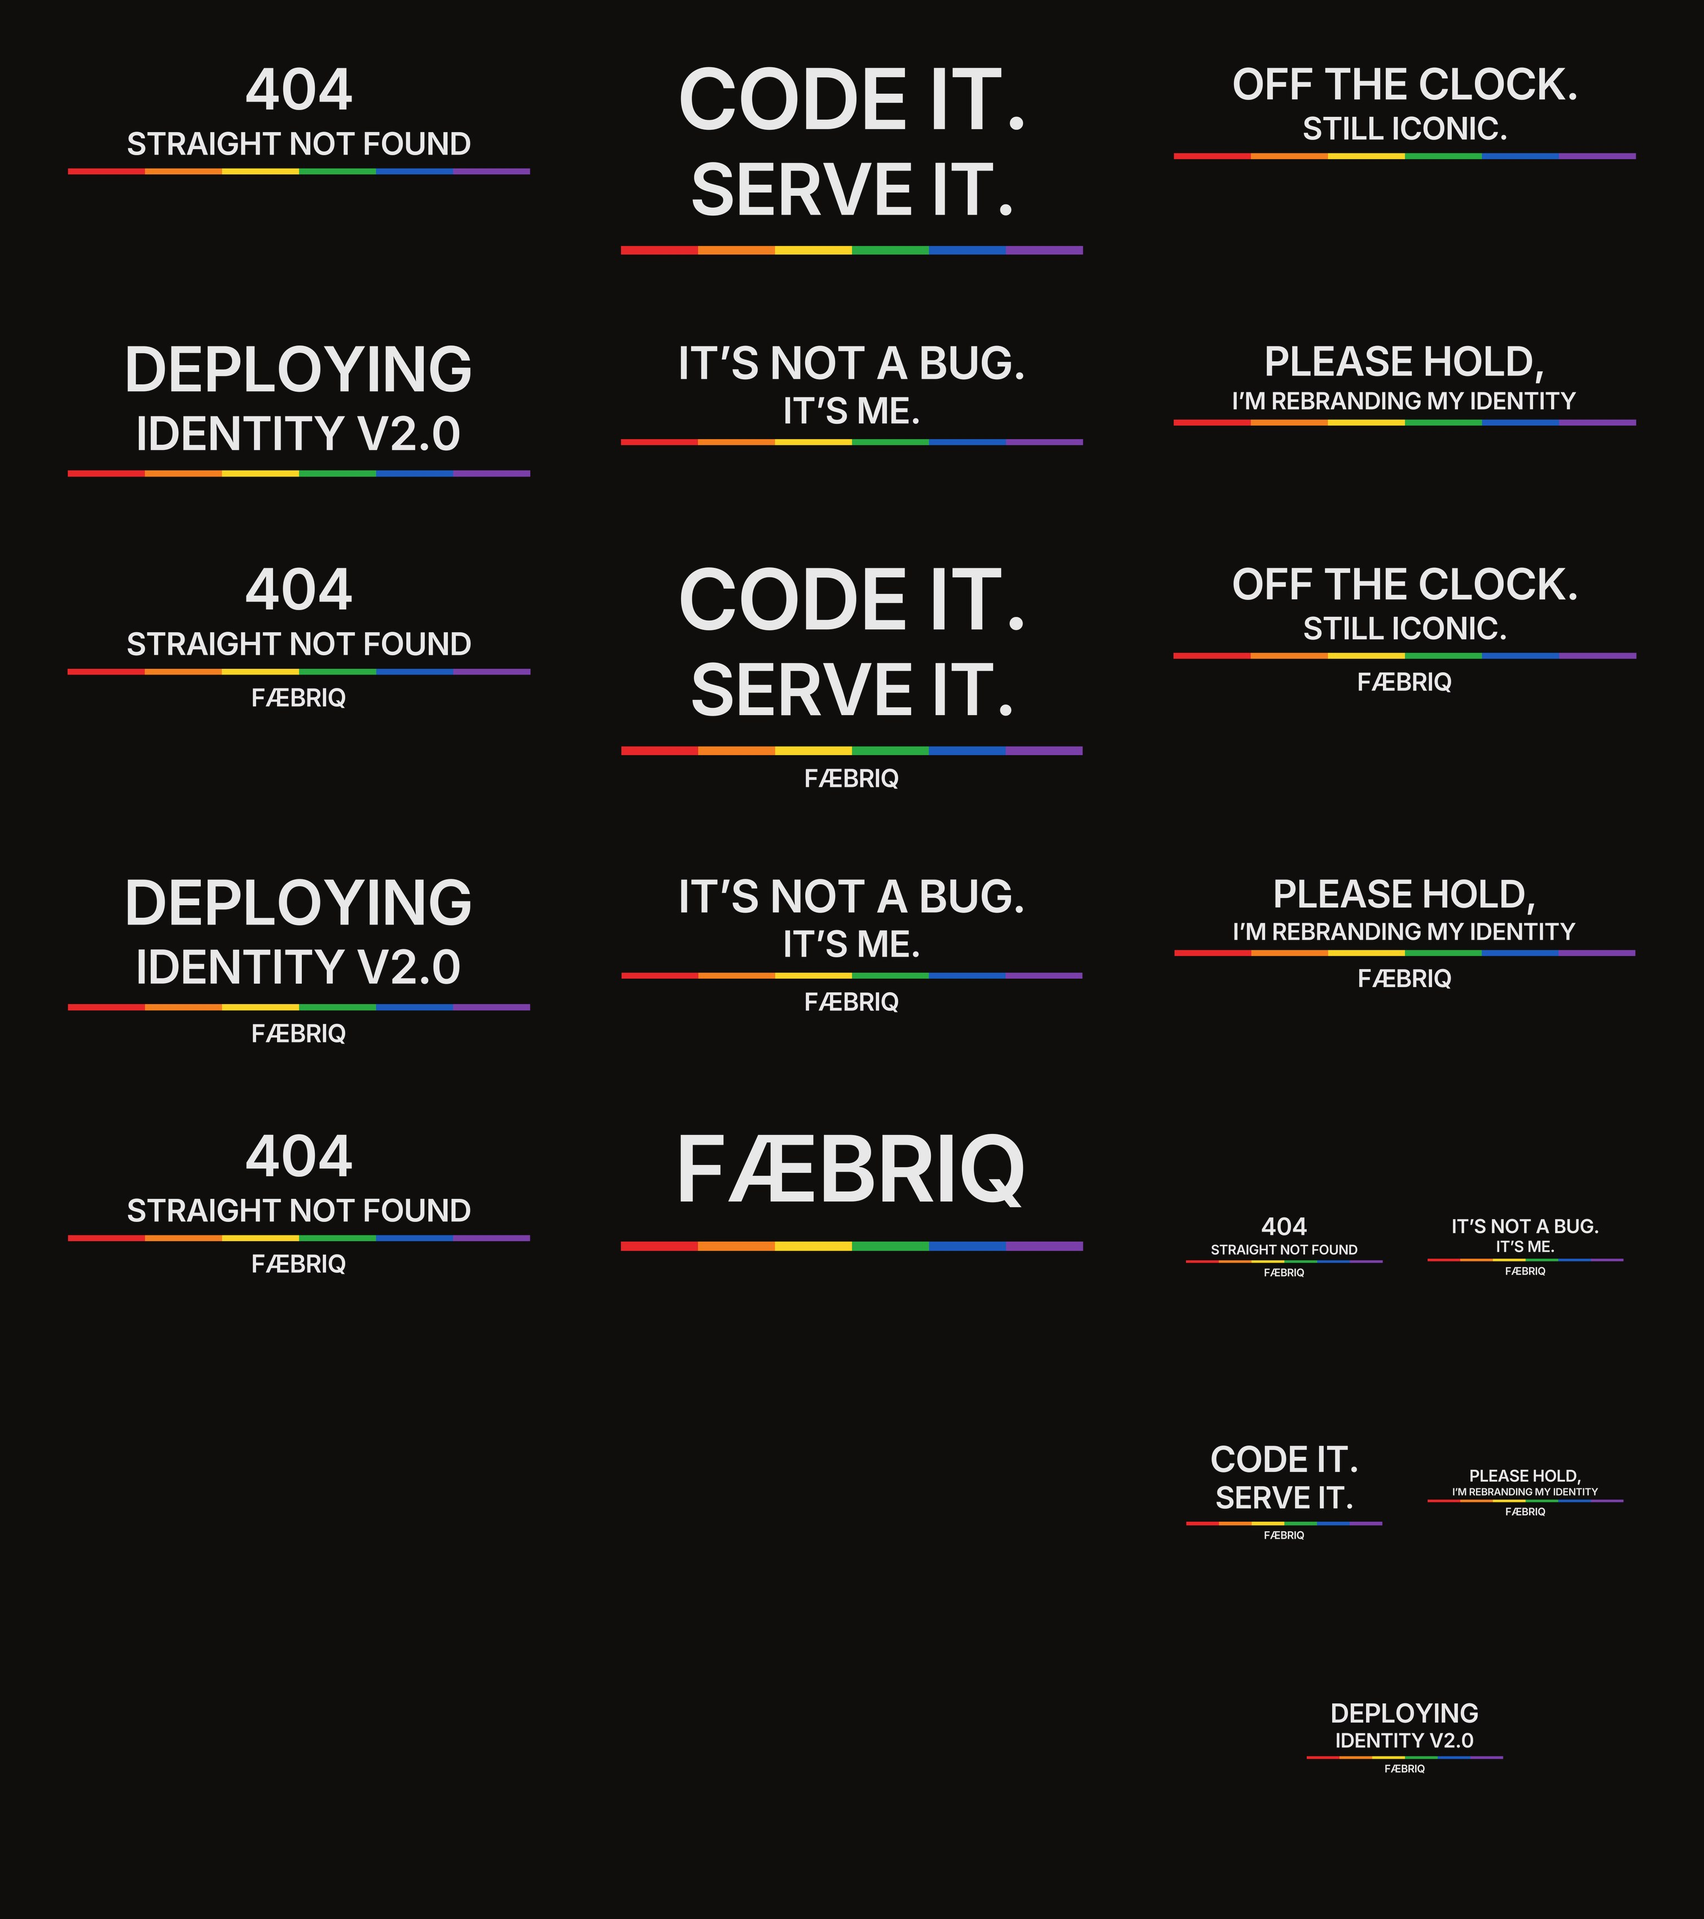
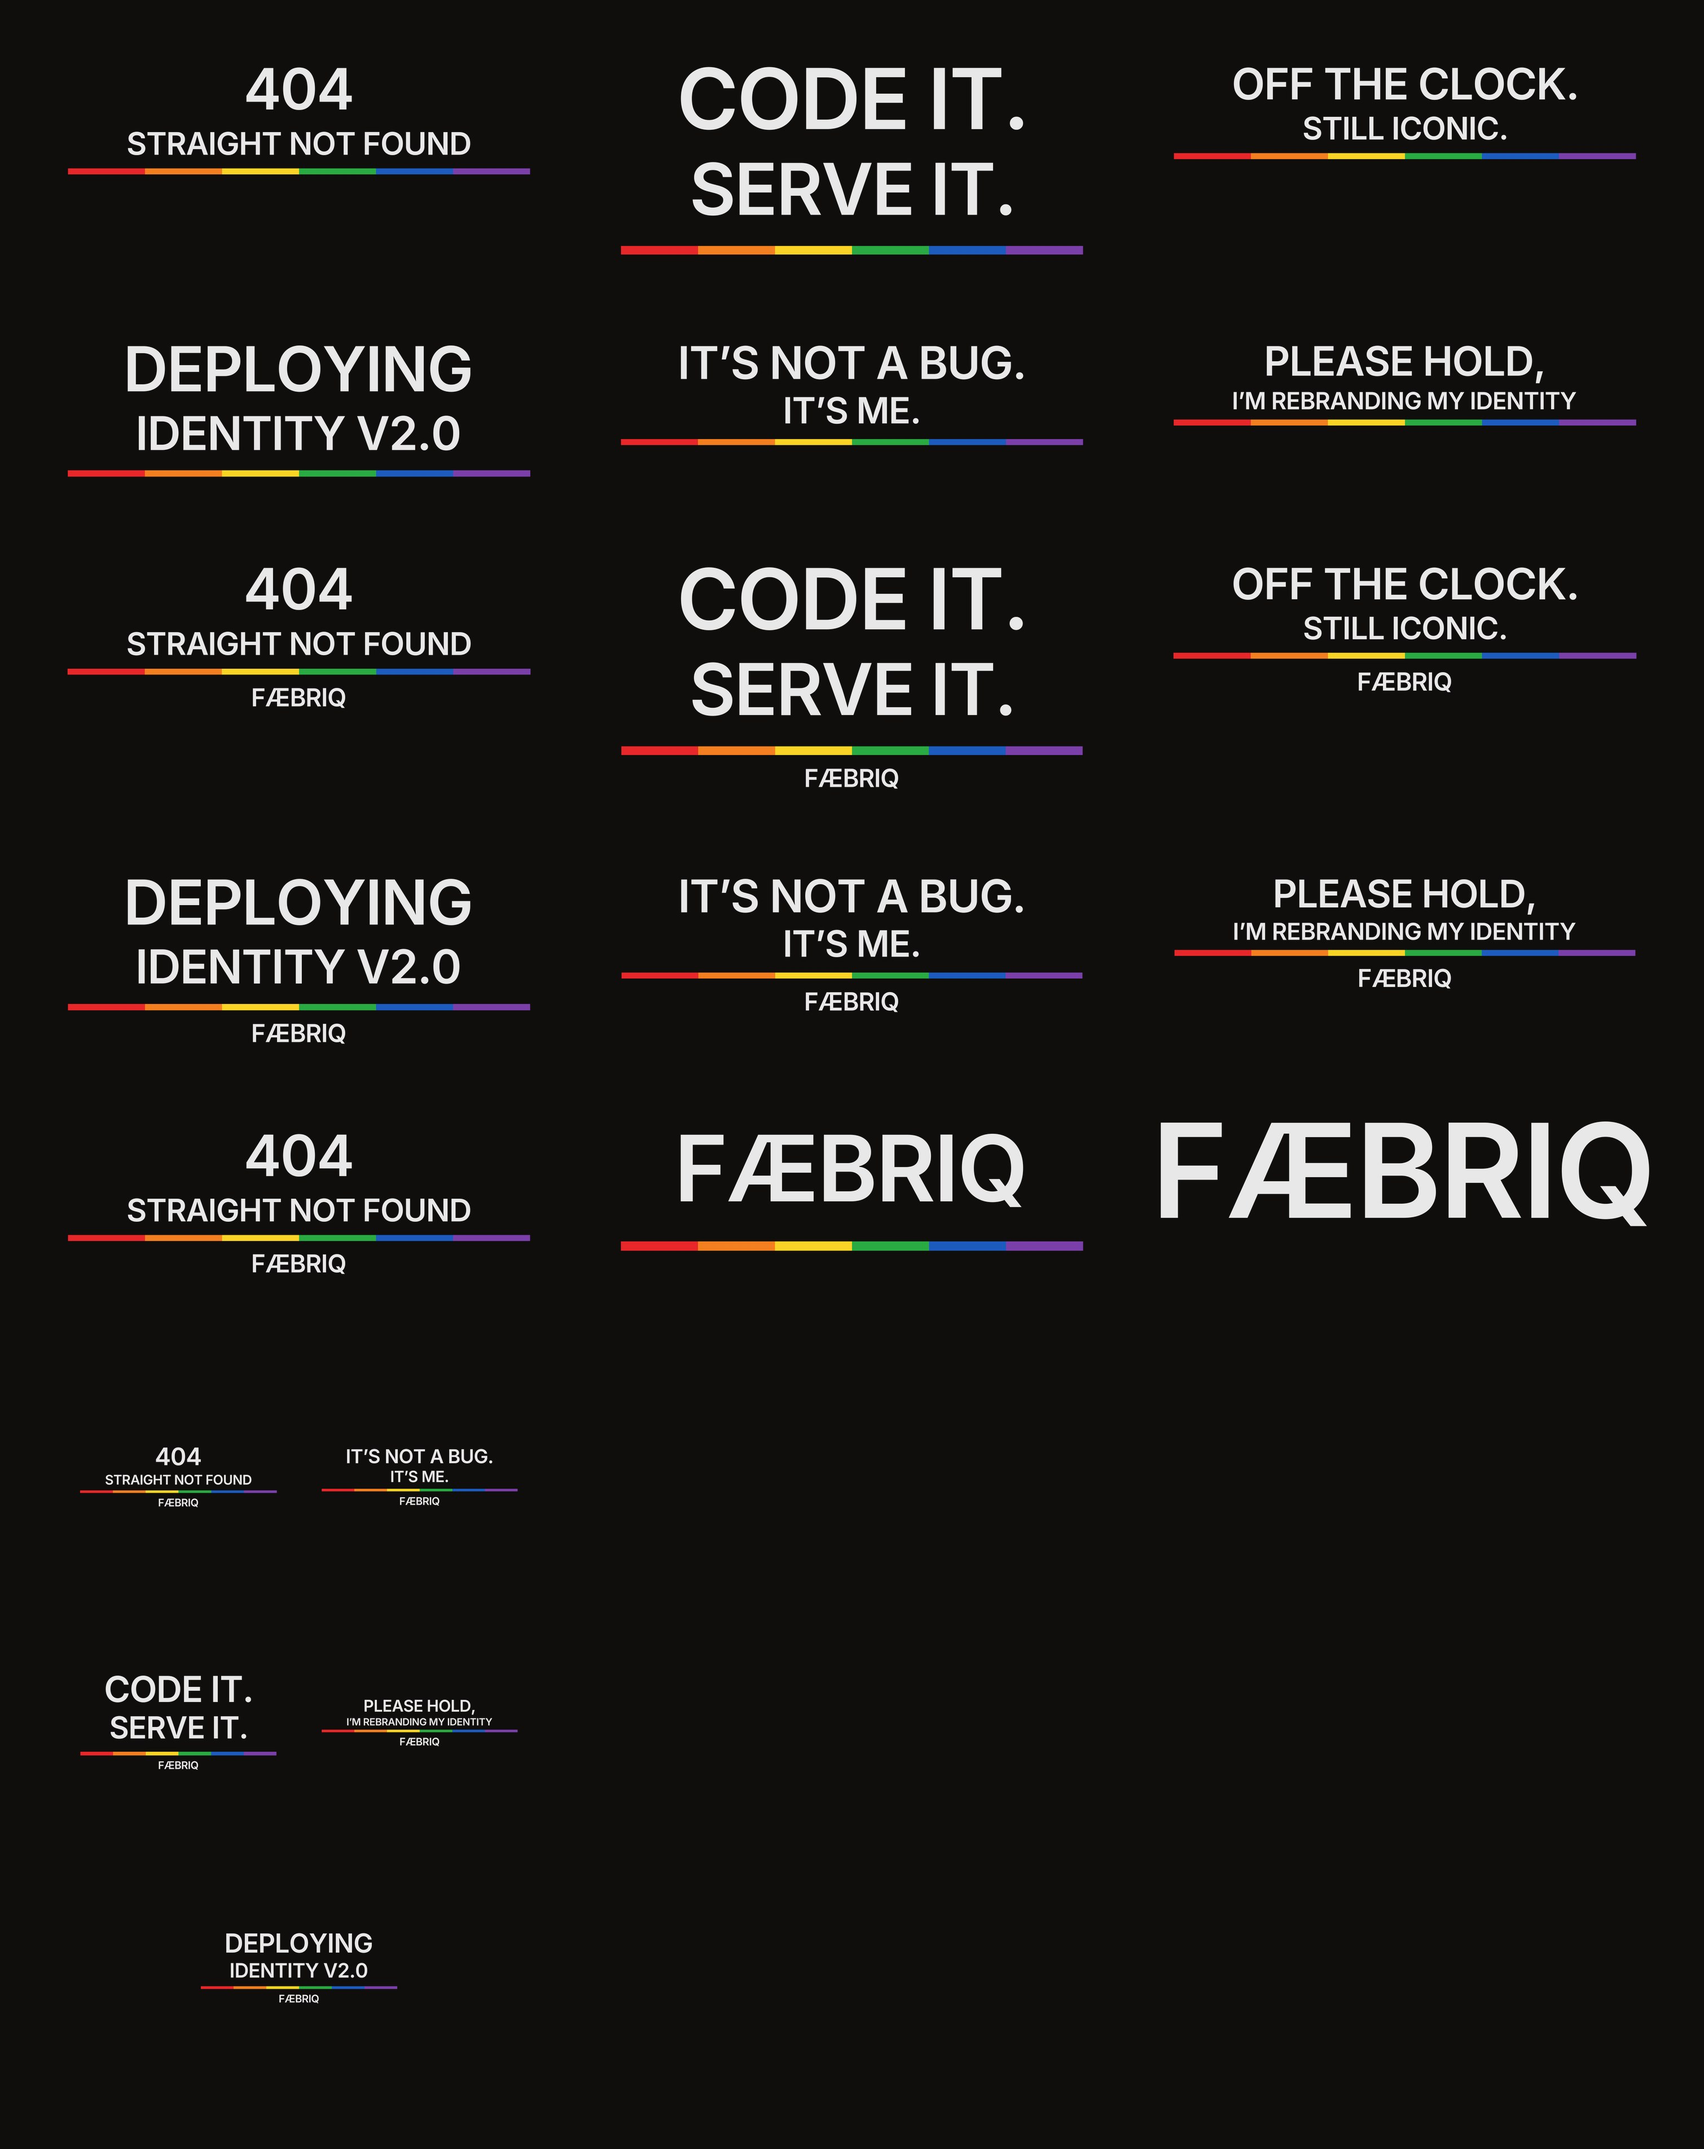
Sleeve wordmark without stripe
Claude-Session: https://claude.ai/code/session_01VwDCHt8ADP2wXBC2gUM4Zh

diff --git a/tools/make_print_system.py b/tools/make_print_system.py
@@ -201,6 +201,17 @@ def main():
     # Logo: wordmark as line 1, stripe underneath. Cap front and apparel sleeve.
     im, meta = lockup(("FÆBRIQ",), False, 3600)
     preview.append(save(im, "logo-faebriq-1p35.png", meta, "cap front + sleeve", ["FÆBRIQ"], manifest))
+    # Sleeve: FÆBRIQ alone, no stripe (the chest print already carries it,
+    # and at 3 in the stripe would print as a 1.5 mm thread).
+    f = font(1000)
+    f = font(1000 * 3000 / ink_w(f, "FÆBRIQ"))
+    m, _ = line_mask(f, "FÆBRIQ")
+    pad = 60
+    im = Image.new("RGBA", (m.width + 2 * pad, m.height + 2 * pad), (0, 0, 0, 0))
+    ink = Image.new("RGBA", m.size, WHITE + (255,))
+    ink.putalpha(m)
+    im.alpha_composite(ink, (pad, pad))
+    preview.append(save(im, "wordmark-faebriq-sleeve.png", {}, "apparel sleeve", ["FÆBRIQ"], manifest))
     sheet = sticker_sheet(stickers)
     save(sheet, "sticker-sheet-2400x3600.png", {}, "sticker sheet", SHEET, manifest)
     preview.append(sheet)

diff --git a/handoff/MUSE_BRIEF_4.md b/handoff/MUSE_BRIEF_4.md
@@ -33,7 +33,7 @@ Manus ran out of credits. It delivered no images and saved nothing in Printify. 
 | `deploying-identity-v2-sticker` | kiss-cut sticker | `deploying-identity-v2-sticker-2400.png` |
 | `faebriq-sticker-sheet-full-drop` | sticker sheet | `sticker-sheet-2400x3600.png` |
 
-Tees, hoodie and crewneck also carry `logo-faebriq-1p35.png` (FÆBRIQ over the stripe) about 3 in wide at the **bottom of the left sleeve**, **horizontal**: it reads left to right across the sleeve, level when the arm hangs down, about 1 in above the sleeve hem (tees) or the cuff (hoodie, crewneck). Show it where the angle allows.
+Tees, hoodie and crewneck also carry `wordmark-faebriq-sleeve.png` (FÆBRIQ alone, no stripe) about 3 in wide at the **bottom of the left sleeve**, **horizontal**: it reads left to right across the sleeve, level when the arm hangs down, about 1 in above the sleeve hem (tees) or the cuff (hoodie, crewneck). Show it where the angle allows.
 
 ## Tiers (work in the table's order)
 - **Tier 2 (first):** slot 1 and slot 2 for all 12 products. That's 24 images.
@@ -78,7 +78,7 @@ Generate the scene with the product blank but no print, then composite the exact
    - Tote: 10 in, centered.
    - Cap: 3.5 to 4 in, centered.
    - Stickers and sheet: fill the area.
-   - Left sleeve: `logo-faebriq-1p35.png` at 3 in, **horizontal** (no rotation), placed at the bottom of the sleeve print area, about 1 in above the hem or cuff. **Only if the product already has a sleeve position.** Never change blueprint or provider. If the sleeve area is too narrow for 3 in horizontal, use the largest width that fits and note it.
+   - Left sleeve: `wordmark-faebriq-sleeve.png` at 3 in, **horizontal** (no rotation), placed at the bottom of the sleeve print area, about 1 in above the hem or cuff. **Only if the product already has a sleeve position.** Never change blueprint or provider. If the sleeve area is too narrow for 3 in horizontal, use the largest width that fits and note it.
 5. **Publish** with title, description, tags and images/mockups set to **false**. Variants only. No price may change.
 6. Record in `Final_report.md`: done per product, sleeve added or not offered, cost before and after, and the sticker sheet's print area size.
 

diff --git a/IMAGERY_SPEC_2026-09-23.md b/IMAGERY_SPEC_2026-09-23.md
@@ -8,7 +8,7 @@ Decisions by Maurice. Decision board: https://claude.ai/artifact/9zSaBXjVRRWu1AV
 - **Gallery:** exactly 4 shots per product, in the slot order below.
 - **Ground:** the brand's near-black (#0f0e0c family). Dark studio surfaces, dark scenes.
 - **Print system (set 2026/09/25, supersedes every earlier lockup):** Inter SemiBold, white. Line 2 at 55 to 90% of line 1's font size, set per design in `tools/make_print_system.py` (404 0.55, Code It 0.85, Off The Clock 0.72, Deploying 0.75, Not A Bug 0.80, Please Hold 0.58). A flat six-block rainbow pride stripe under the text, 1.35x the widest text line. Files: `assets/print-art/system-2026-09-25/`, generated by `tools/make_print_system.py`.
-- **Wordmark:** FÆBRIQ under the stripe on stickers and the tote only. Tees, hoodie and crewneck carry no wordmark on the chest; they get `logo-faebriq-1p35.png` on the left sleeve. The cap front uses that same logo.
+- **Wordmark:** FÆBRIQ under the stripe on stickers and the tote only. Tees, hoodie and crewneck carry no wordmark on the chest; they get `wordmark-faebriq-sleeve.png` (FÆBRIQ alone, no stripe) horizontal at the bottom of the left sleeve. The cap front uses `logo-faebriq-1p35.png` (FÆBRIQ over the stripe).
 - **Brand spelling:** FÆBRIQ, with the Æ ligature, every time. The old repo mockups (`assets/mockup-*.png`, `FAEBRIQ_*_Mockup*.png`, `model-*-new.png`, `model-flatlay-new.png`) show a garbled wordmark, the circuit logo on slogan products, or an off-brand font. Never use them as a reference or as a product image.
 - **Retired 2026/09/25:** every print file outside `system-2026-09-25/` (Bodoni serif masters, the v3 404, cap v2/v3, `sticker-final-system-2026-08-27/`) and the 2026-09-24 product image set.
 - **Never:** embroidery claims, em or en dashes.

diff --git a/CHANGELOG.md b/CHANGELOG.md
@@ -112,3 +112,4 @@ Why: Maurice's call to put every product in one system; older print files and th
 2026-09-25 Manus ran out of credits with nothing delivered; added handoff/MUSE_BRIEF_4.md so Muse makes the product images (physically warped composites), Printify swaps go to Maurice by hand. Why: no Manus credits left.
 2026-09-25 MUSE_BRIEF_4: Muse now also does the Printify swaps via its connector (read first, one batched approval, upload by URL, publish variants only). Why: Maurice connected Printify to Muse.
 2026-09-25 MUSE_BRIEF_4: sleeve logo placed horizontal at the bottom of the left sleeve; tote lockup spelled out as the sticker version. Why: Maurice's placement spec.
+2026-09-25 Added wordmark-faebriq-sleeve.png (FÆBRIQ alone, no stripe) for apparel sleeves; Muse brief and imagery spec updated. Why: Maurice chose no bar on sleeves.
